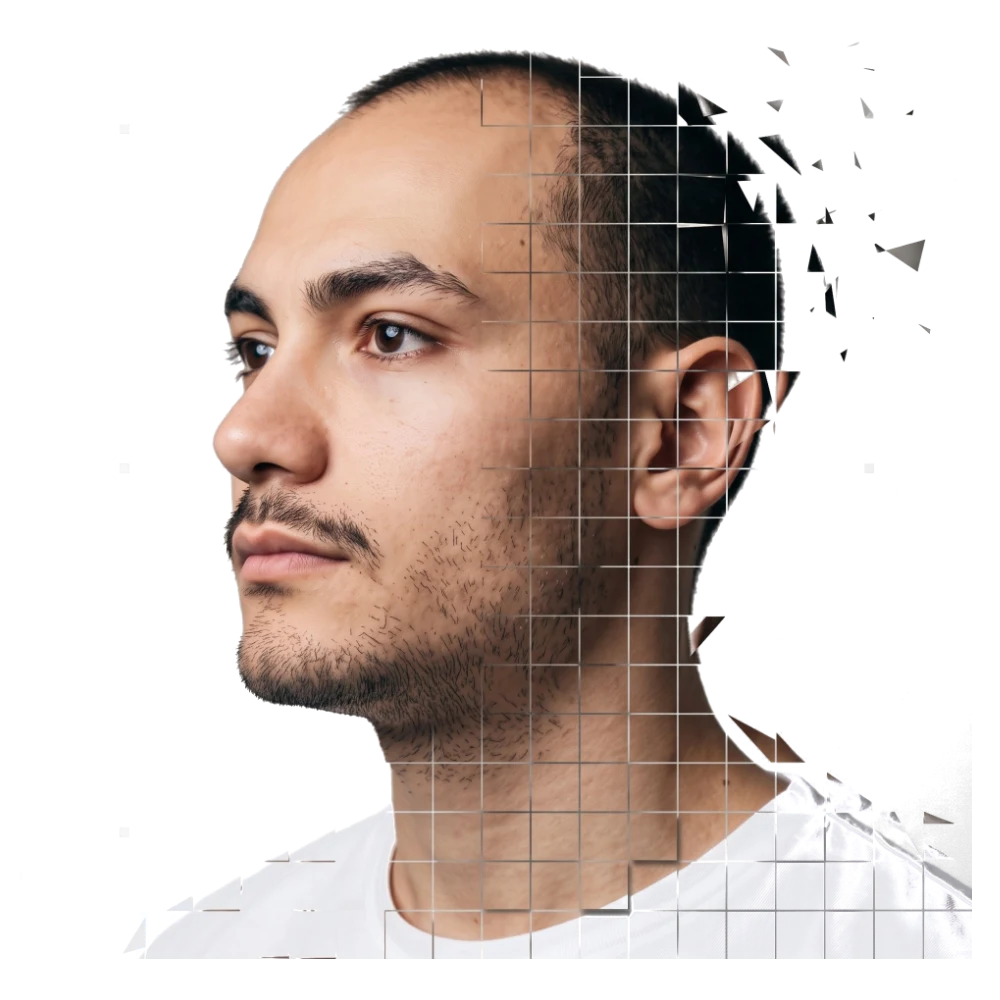
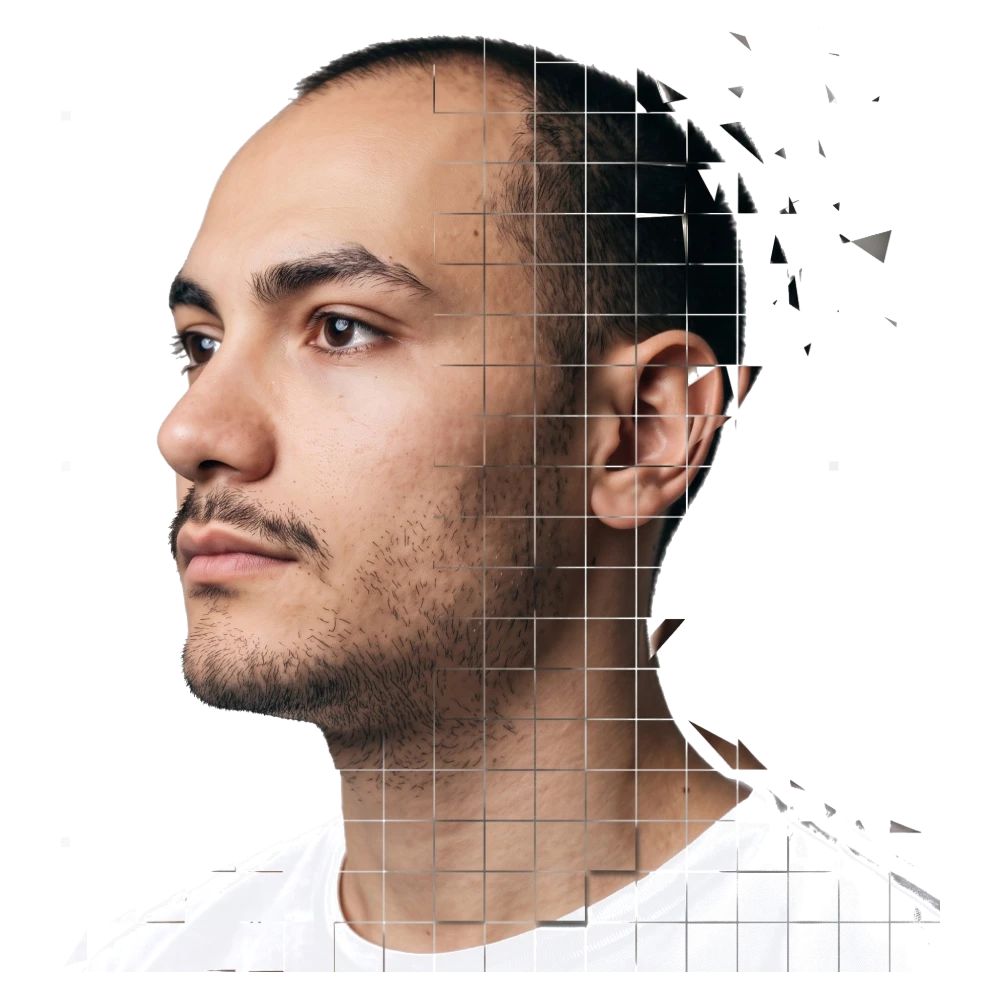
Refine the hero: cleaner cutout, split given name, tighter badge
Background removal, second pass. The first left semi-transparent edge
pixels that read as a white halo against the dark theme. Thresholds are
stricter, a gamma curve pushes weak edge alpha to zero, stray pixels
whose neighbours are all transparent are dropped, and the background
colour is now subtracted only where alpha is high enough — below that,
dividing by a small alpha was what turned edge pixels bright white.

The given name is split so the head sits in the gap rather than hiding
the middle of the word, which is what his drawing showed: Pei / man, and
پیم / ان in Persian joined with a zero-width joiner so the meem keeps its
medial form instead of snapping to its final one.

Both names are larger, the word-ring is smaller and now overlaps the
portrait as it did at phone size, and the mark fills more of the header
circle without the circle changing.

The photo stays in colour, as he chose.

diff --git a/components/Hero.module.css b/components/Hero.module.css
@@ -22,7 +22,7 @@
   position: absolute;
   inset: 0;
   margin: 0;
-  font-size: clamp(2.6rem, 11vw, 7.5rem);
+  font-size: clamp(3rem, 14vw, 10.5rem);
   font-weight: 700;
   line-height: 0.92;
   pointer-events: none;
@@ -34,11 +34,19 @@
   white-space: nowrap;
 }
 
+/* نام کوچک: دو نیمه در دو لبه، با سر در میانشان. */
+.given {
+  display: flex;
+  justify-content: space-between;
+  inline-size: 74%;
+  margin-inline: auto;
+}
+
 /* نام کوچک پشت تصویر مینشیند، نام خانوادگی رویش — همان چیدمان طرح. */
 .given {
   z-index: 1;
-  inset-block-start: 2%;
-  inset-inline-start: 3%;
+  inset-block-start: 1%;
+  inset-inline: 0;
 }
 
 .family {
@@ -137,6 +145,6 @@
   }
 
   .name {
-    font-size: clamp(4rem, 7.5vw, 7.5rem);
+    font-size: clamp(5rem, 10vw, 10.5rem);
   }
 }

diff --git a/components/SpinningBadge.module.css b/components/SpinningBadge.module.css
@@ -1,7 +1,7 @@
 .badge {
   position: relative;
-  inline-size: 7.5rem;
-  block-size: 7.5rem;
+  inline-size: 5.4rem;
+  block-size: 5.4rem;
   display: grid;
   place-items: center;
 }
@@ -15,7 +15,7 @@
   inline-size: 100%;
   block-size: 100%;
   fill: var(--text-muted);
-  font-size: 9px;
+  font-size: 10px;
   text-transform: uppercase;
   animation: spin 22s linear infinite;
 }
@@ -34,18 +34,18 @@
 }
 
 .mark {
-  inline-size: 46%;
-  block-size: 46%;
+  inline-size: 50%;
+  block-size: 50%;
   color: var(--text);
 }
 
 @media (min-width: 56rem) {
   .badge {
-    inline-size: 9rem;
-    block-size: 9rem;
+    inline-size: 6.2rem;
+    block-size: 6.2rem;
   }
 
   .ring {
-    font-size: 8.4px;
+    font-size: 9.6px;
   }
 }

diff --git a/components/Hero.tsx b/components/Hero.tsx
@@ -25,7 +25,11 @@ export function Hero({ t }: { t: Content }) {
       {/* سه لایه روی هم: نام کوچک، پرتره، نام خانوادگی. ترتیبشان در CSS با z-index است. */}
       <div className={styles.stage}>
         <motion.h1 className={styles.name} {...rise(0)}>
-          <span className={styles.given}>{t.hero.given}</span>
+          {/* دو تکه، چسبیده به دو لبه؛ سر در فاصلهٔ میانشان مینشیند. */}
+          <span className={styles.given}>
+            <span>{t.hero.givenStart}</span>
+            <span>{t.hero.givenEnd}</span>
+          </span>
           <span className={styles.family}>{t.hero.family}</span>
         </motion.h1>
 

diff --git a/content/fa.ts b/content/fa.ts
@@ -29,7 +29,8 @@ export const fa: Content = {
     photoAlt: "پیمان عسگری",
     photoPlaceholder: "جای عکس شخصی",
     name: "پیمان عسگری",
-    given: "پیمان",
+    givenStart: "پیم",
+    givenEnd: "ان",
     family: "عسگری",
     badge: "peiman asgari portfolio",
     title: "روانشناس، طراح و توسعهدهندهٔ وب و موبایل",

diff --git a/content/en.ts b/content/en.ts
@@ -30,7 +30,8 @@ export const en = {
     photoAlt: "Peiman Asgari",
     photoPlaceholder: "Your photo goes here",
     name: "Peiman Asgari",
-    given: "Peiman",
+    givenStart: "Pei",
+    givenEnd: "man",
     family: "Asgari",
     badge: "peiman asgari portfolio",
     title: "Psychologist, designer, web & mobile developer",

diff --git a/components/Header.module.css b/components/Header.module.css
@@ -28,7 +28,7 @@
 .logo {
   display: grid;
   place-items: center;
-  padding: 0.3rem;
+  padding: 0.12rem;
   inline-size: 2.75rem;
   block-size: 2.75rem;
   flex: none;
